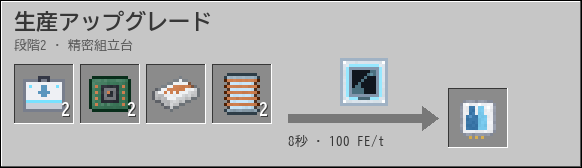
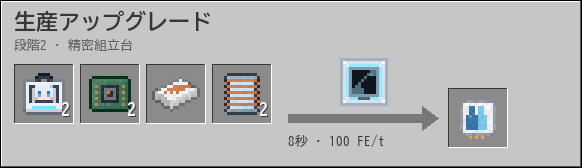
Redraw the android and drone kits, armor plate and gravity boots
The three kits share a white case with a black handle: the android kit
shows an android's face, the drone kit a drone and the self-repair kit a
pink cross. The armor plate keeps its shape, and the gravity boots show a
pair like vanilla boots and are worn as high as leather boots. All fit
within 14 by 14 pixels.

Changed region(s): [[0.0309, 0.4167, 0.1237, 0.6845]]

diff --git a/tools/androids.py b/tools/androids.py
@@ -802,30 +802,41 @@ def memory_icon(accent, Image):
 
 
 def kit_icon(Image):
-    """アンドロイドキット: 白い陶磁のケースに、黒い留め具と水色の線。ふたに人型の印。"""
-    im = Image.new('RGBA', (16, 16), (0, 0, 0, 0))
-    px = im.load()
-    white, shade, edge = (238, 240, 244), (200, 206, 216), (120, 126, 140)
-    dark = (52, 56, 70)
-    glow = (120, 225, 255)
-    for y in range(3, 14):
-        for x in range(1, 15):
-            c = shade if y >= 11 else white
-            if x in (1, 14) or y in (3, 13):
-                c = edge
-            px[x, y] = c + (255,)
-    for x in range(2, 14):
-        px[x, 10] = glow + (255,)
-    for x in (6, 7, 8, 9):
-        px[x, 2] = dark + (255,)
-    px[6, 3] = dark + (255,)
-    px[9, 3] = dark + (255,)
-    # 人型の印（頭と体）
-    for (x, y) in ((7, 5), (8, 5), (7, 6), (8, 6), (6, 7), (7, 7), (8, 7), (9, 7), (7, 8), (8, 8)):
-        px[x, y] = (90, 150, 190, 255)
-    px[3, 5] = glow + (255,)
-    px[12, 5] = glow + (255,)
-    return im
+    """アンドロイドキット（0.21.0 で描き直した）: 黒い取っ手のついた白い箱。窓には、組み上がる前のアンドロイドの顔
+    （前髪とひと房のある白い髪、上が濃い青で下が水色の目、頬の赤み、両脇の髪、水色の髪留め）。箱の下に水色の線。
+    輪郭を含めて14×14に収め、上下左右の真ん中に置く。"""
+    from art16 import outlined, rgba, SOFT_EDGE
+    white, shade, dark = (238, 240, 244), (200, 206, 216), (52, 56, 70)
+    window, glow = (54, 66, 92), (120, 225, 255)
+    hair, hair2 = (232, 236, 244), (196, 204, 220)
+    skin, blush = (252, 226, 214), (246, 178, 184)
+    eye, eye_d = (80, 180, 240), (40, 120, 200)
+
+    def f(d):
+        def px(pts, c):
+            for p in pts:
+                d.point(p, fill=rgba(c))
+        # 取っ手と箱、顔の窓
+        d.rectangle([6, 2, 9, 2], fill=rgba(dark))
+        px([(6, 3), (9, 3)], dark)
+        d.rectangle([2, 4, 13, 13], fill=rgba(white))
+        d.line([(2, 13), (13, 13)], fill=rgba(shade))
+        d.rectangle([3, 5, 12, 10], fill=rgba(window))
+        # 顔（x 4〜11、y 5〜10）
+        d.rectangle([5, 5, 10, 5], fill=rgba(hair))
+        d.rectangle([4, 6, 11, 6], fill=rgba(hair))
+        px([(4, 6), (11, 6)], hair2)
+        d.rectangle([5, 7, 10, 9], fill=rgba(skin))
+        px([(7, 7)], hair)
+        for x in (6, 9):
+            px([(x, 7)], eye_d)
+            px([(x, 8)], eye)
+        px([(5, 9), (10, 9)], blush)
+        d.rectangle([4, 7, 4, 10], fill=rgba(hair2))
+        d.rectangle([11, 7, 11, 10], fill=rgba(hair2))
+        px([(10, 5)], glow)
+        d.line([(4, 12), (11, 12)], fill=rgba(glow))
+    return _kit_finish(Image, outlined(f, **SOFT_EDGE))
 
 
 def charger_icon(Image):
@@ -847,43 +858,64 @@ def charger_icon(Image):
 
 
 def repair_icon(Image):
-    """自己修理キット: 白い小箱に、ピンクの十字と小さなハート。"""
-    im = Image.new('RGBA', (16, 16), (0, 0, 0, 0))
-    px = im.load()
-    for y in range(4, 14):
-        for x in range(2, 14):
-            c = (238, 240, 244) if y < 11 else (206, 212, 222)
-            if x in (2, 13) or y in (4, 13):
-                c = (130, 136, 150)
-            px[x, y] = c + (255,)
-    for x in range(5, 11):
-        px[x, 3] = (130, 136, 150, 255)
-    px[5, 2] = px[10, 2] = (130, 136, 150, 255)
-    for x in range(6, 10):
-        px[x, 2] = (130, 136, 150, 255)
-    for (x, y) in ((7, 6), (8, 6), (7, 7), (8, 7), (5, 8), (6, 8), (7, 8), (8, 8), (9, 8), (10, 8), (7, 9), (8, 9), (7, 10), (8, 10)):
-        px[x, y] = (240, 90, 130, 255)
-    px[11, 5] = (255, 160, 190, 255)
-    return im
+    """自己修理キット（0.21.0 で描き直した）: アンドロイドキットと同じ黒い取っ手の白い箱に、桃色の十字と、箱の下の桃色の線。
+    輪郭を含めて14×14に収め、上下左右の真ん中に置く。"""
+    from art16 import outlined, rgba, SOFT_EDGE
+    white, shade, dark = (238, 240, 244), (200, 206, 216), (52, 56, 70)
+    pink, pink_hi = (240, 90, 130), (255, 170, 196)
+
+    def f(d):
+        d.rectangle([6, 2, 9, 2], fill=rgba(dark))
+        d.point((6, 3), fill=rgba(dark))
+        d.point((9, 3), fill=rgba(dark))
+        d.rectangle([2, 4, 13, 13], fill=rgba(white))
+        d.line([(2, 13), (13, 13)], fill=rgba(shade))
+        d.rectangle([7, 5, 8, 10], fill=rgba(pink))
+        d.rectangle([5, 7, 10, 8], fill=rgba(pink))
+        d.point((7, 5), fill=rgba(pink_hi))
+        d.line([(4, 12), (11, 12)], fill=rgba(pink))
+    return _kit_finish(Image, outlined(f, **SOFT_EDGE))
+
+
+def _kit_finish(Image, im):
+    """取っ手の穴（輪郭で埋まる）を抜き、14×14以内か確かめて真ん中に置く（キットの絵で共通）。"""
+    for x in (7, 8):
+        im.putpixel((x, 3), (0, 0, 0, 0))
+    box = im.getbbox()
+    w, h = box[2] - box[0], box[3] - box[1]
+    assert w <= 14 and h <= 14, (w, h)
+    out = Image.new('RGBA', (16, 16), (0, 0, 0, 0))
+    out.paste(im.crop(box), ((16 - w) // 2, (16 - h) // 2))
+    return out
 
 
 def plate_icon(Image):
-    """アンドロイド用装甲板: 白い陶磁の胸当て。縁は銀、中央に水色の発光ライン。"""
-    im = Image.new('RGBA', (16, 16), (0, 0, 0, 0))
-    px = im.load()
-    rows = [(4, 11), (2, 13), (2, 13), (2, 13), (3, 12), (3, 12), (3, 12), (4, 11), (4, 11), (5, 10), (6, 9)]
-    for i, (a, b) in enumerate(rows):
-        y = 3 + i
-        for x in range(a, b + 1):
-            edge = x in (a, b) or i in (0, len(rows) - 1)
-            c = (150, 156, 170) if edge else (236, 238, 242) if x < 8 else (210, 214, 224)
-            px[x, y] = c + (255,)
-    for x in (6, 9):
-        px[x, 3] = (0, 0, 0, 0)
-    for y in range(6, 12):
-        px[7, y] = (120, 225, 255, 255)
-        px[8, y] = (90, 190, 230, 255)
-    return im
+    """アンドロイド用装甲板（0.21.0 で描き直した）: これまでと同じ形の白い陶磁の胸当て（上が広く、首の左右に切り欠き、下がすぼまる）。
+    左が明るく右が陰。真ん中に水色の発光ライン（明・陰の2列）。輪郭を含めて14×14に収め、上下左右の真ん中に置く。"""
+    from art16 import outlined, rgba, SOFT_EDGE
+    rows = [(4, 11), (2, 13), (2, 13), (2, 13), (3, 12), (3, 12), (3, 12), (4, 11), (4, 11), (5, 10), (6, 9), (7, 8)]
+    left, right = (238, 240, 244), (210, 214, 224)
+
+    def f(d):
+        for i, (x0, x1) in enumerate(rows):
+            y = 2 + i
+            d.line([(x0, y), (7, y)], fill=rgba(left))
+            d.line([(8, y), (x1, y)], fill=rgba(right))
+        d.line([(7, 5), (7, 11)], fill=rgba((120, 225, 255)))
+        d.line([(8, 5), (8, 11)], fill=rgba((90, 190, 230)))
+        d.point((3, 4), fill=(255, 255, 255, 255))
+        d.point((4, 3), fill=(255, 255, 255, 255))
+        d.point((6, 2), fill=(0, 0, 0, 0))   # 首の左右の切り欠き（輪郭を付ける前にも抜く）
+        d.point((9, 2), fill=(0, 0, 0, 0))
+    im = outlined(f, **SOFT_EDGE)
+    for x in (6, 9):                     # 首の左右の切り欠き
+        im.putpixel((x, 2), (0, 0, 0, 0))
+    box = im.getbbox()
+    w, h = box[2] - box[0], box[3] - box[1]
+    assert w <= 14 and h <= 14, (w, h)
+    out = Image.new('RGBA', (16, 16), (0, 0, 0, 0))
+    out.paste(im.crop(box), ((16 - w) // 2, (16 - h) // 2))
+    return out
 
 
 def upgrade_icon(Image):

diff --git a/tools/art16.py b/tools/art16.py
@@ -2395,15 +2395,33 @@ def overclock_chip():
 
 
 def gravity_boots():
-    """重力ブーツ: 白い装甲のブーツ。かかとに青く光る重力素子。"""
-    im, d = new()
-    d.polygon([(4, 2), (9, 2), (9, 10), (14, 11), (14, 14), (3, 14), (3, 9)], fill=(230, 234, 240, 255),
-              outline=(120, 126, 140, 255))
-    d.line([(4, 12), (13, 12)], fill=(70, 74, 84, 255))
-    d.line([(4, 6), (8, 6)], fill=(110, 205, 238, 255))
-    d.rectangle([3, 10, 5, 13], fill=(110, 205, 238, 255))
-    d.point((4, 11), fill=(255, 255, 255, 255))
-    return im
+    """重力ブーツ（0.21.0 で描き直した）: バニラのブーツと同じく、白い装甲のブーツを左右に2足（つま先は外へ）。
+    すねに水色の発光の帯、黒い靴底。2足の間は透明に抜き、内側の縁は陰の色。輪郭を含めて14×14以内で、上下左右の真ん中に置く。"""
+    armor, armor_sh, sole, blue = (232, 236, 242), (192, 200, 214), (58, 62, 76), (110, 205, 238)
+    top = 5
+
+    def f(d):
+        for side in (0, 1):
+            sx = 4 if side == 0 else 9                                     # すねの左端
+            fx0, fx1 = (2, 6) if side == 0 else (9, 13)                    # 足の左右
+            inner = 6 if side == 0 else 9
+            d.rectangle([sx, top, sx + 2, 10], fill=rgba(armor))          # すね
+            d.rectangle([fx0, 10, fx1, 11], fill=rgba(armor))             # 足
+            d.line([(fx0, 12), (fx1, 12)], fill=rgba(sole))               # 靴底
+            d.line([(inner, top), (inner, 11)], fill=rgba(armor_sh))      # 内側の陰
+            d.line([(fx0, 11), (fx1, 11)], fill=rgba(armor_sh))
+            d.line([(sx, top + 1), (sx + 2, top + 1)], fill=rgba(blue))   # すねの帯
+            d.point((sx, top + 2), fill=(255, 255, 255, 255))
+    im = outlined(f, **SOFT_EDGE)
+    for x in (7, 8):                                                       # 2足の間（輪郭で埋まる）を抜く
+        for y in range(16):
+            im.putpixel((x, y), (0, 0, 0, 0))
+    box = im.getbbox()
+    w, h = box[2] - box[0], box[3] - box[1]
+    assert w <= 14 and h <= 14, (w, h)
+    out = Image.new('RGBA', (16, 16), (0, 0, 0, 0))
+    out.paste(im.crop(box), ((16 - w) // 2, (16 - h) // 2))
+    return out
 
 
 def catalyst_stabilizer():
@@ -2495,18 +2513,21 @@ def sealed_container_inner():
 
 
 def gravity_boots_layer():
-    """重力ブーツを履いたときの絵（防具の1枚目、64×32）。ブーツは脚の下半分に描かれる。"""
+    """重力ブーツを履いたときの絵（防具の1枚目、64×32）。0.21.0: アイテムの絵（白い装甲・すねの水色の帯・黒い靴底）に合わせ、
+    高さはバニラの革のブーツと同じ（脚の側面の下6段 v=26〜31 と、足の裏の面）。"""
     from PIL import Image
     im = Image.new('RGBA', (64, 32), (0, 0, 0, 0))
     d = ImageDraw.Draw(im)
-    # 脚の展開図（u=0〜16, v=16〜32）。下側（足首から下）だけ塗る
-    d.rectangle([0, 22, 15, 31], fill=(230, 234, 240, 255))
-    d.rectangle([4, 16, 11, 19], fill=(230, 234, 240, 255))
-    d.line([(0, 22), (15, 22)], fill=(120, 126, 140, 255))
-    d.line([(0, 28), (15, 28)], fill=(70, 74, 84, 255))
-    for x in (1, 5, 9, 13):
-        d.point((x, 25), fill=(110, 205, 238, 255))
-    d.line([(0, 30), (15, 30)], fill=(110, 205, 238, 255))
+    armor, armor_sh, sole, blue = (232, 236, 242), (192, 200, 214), (58, 62, 76), (110, 205, 238)
+    # 脚の展開図: 側面は v=20〜31（右 u0〜3・前 u4〜7・左 u8〜11・後ろ u12〜15）、足の裏は u8〜11, v16〜19
+    d.rectangle([0, 26, 15, 31], fill=rgba(armor))
+    d.line([(0, 26), (15, 26)], fill=rgba(armor_sh))        # 履き口
+    d.line([(0, 27), (15, 27)], fill=rgba(blue))            # すねの帯
+    d.line([(0, 30), (15, 30)], fill=rgba(armor_sh))        # 足の陰
+    d.line([(0, 31), (15, 31)], fill=rgba(sole))            # 靴底
+    d.rectangle([12, 28, 15, 29], fill=rgba(armor_sh))      # 後ろは陰
+    d.point((4, 28), fill=(255, 255, 255, 255))             # 前の光
+    d.rectangle([8, 16, 11, 19], fill=rgba(sole))           # 足の裏
     return im
 
 

diff --git a/tools/drones.py b/tools/drones.py
@@ -187,27 +187,39 @@ def memory_icon(crystal=ORANGE, mark=CYAN):
 
 
 def kit_icon():
-    """ドローンキット: 白い陶磁のケースに、橙の線と黒い留め具。ふたにドローンの印（4つのローターと胴）。"""
-    im = Image.new('RGBA', (16, 16), (0, 0, 0, 0))
-    px = im.load()
-    white, shade, edge = (238, 240, 244), (200, 206, 216), (120, 126, 140)
-    dark = (52, 56, 70)
-    for y in range(4, 14):
-        for x in range(1, 15):
-            c = shade if y >= 11 else white
-            if x in (1, 14) or y in (4, 13):
-                c = edge
-            px[x, y] = c + (255,)
-    for x in range(2, 14):
-        px[x, 10] = ORANGE + (255,)
-    for x in (6, 7, 8, 9):
-        px[x, 3] = dark + (255,)
-    for (x, y) in ((5, 5), (10, 5), (5, 8), (10, 8)):
-        px[x, y] = (90, 96, 110, 255)
-    for (x, y) in ((6, 6), (7, 6), (8, 6), (9, 6), (6, 7), (7, 7), (8, 7), (9, 7)):
-        px[x, y] = (110, 120, 136, 255)
-    px[7, 6] = ORANGE + (255,)
-    return im
+    """ドローンキット（0.21.0 で描き直した）: アンドロイドキットと同じ黒い取っ手の白い箱。暗い窓に、上から見たドローン
+    （白い胴と橙の灯、灰色の腕、胴のすぐ斜めの4つのローター。淡い円盤に白い羽の線）。箱の下に橙の線。
+    輪郭を含めて14×14に収め、上下左右の真ん中に置く。"""
+    white, shade, dark = (238, 240, 244), (200, 206, 216), (52, 56, 70)
+    window, edge = (54, 66, 92), (150, 156, 170)
+    blur, light = (186, 194, 208), (222, 228, 236)
+
+    def f(d):
+        d.rectangle([6, 2, 9, 2], fill=rgba(dark))                         # 取っ手
+        d.point((6, 3), fill=rgba(dark))
+        d.point((9, 3), fill=rgba(dark))
+        d.rectangle([2, 4, 13, 13], fill=rgba(white))                      # 箱
+        d.line([(2, 13), (13, 13)], fill=rgba(shade))
+        d.rectangle([3, 5, 12, 10], fill=rgba(window))                     # 窓
+        d.line([(4, 12), (11, 12)], fill=rgba(ORANGE))
+        for x, top in ((4, True), (9, True), (4, False), (9, False)):    # ローター（円盤と、外側の段の羽）
+            y = 5 if top else 9
+            d.rectangle([x, y, x + 2, y + 1], fill=rgba(blur))
+            yb = y if top else y + 1
+            d.line([(x, yb), (x + 2, yb)], fill=rgba(light))
+        d.rectangle([7, 7, 8, 8], fill=rgba(white))                        # 胴
+        d.point((8, 7), fill=rgba(ORANGE))
+        for p in ((6, 7), (9, 7), (6, 8), (9, 8)):                         # 腕
+            d.point(p, fill=rgba(edge))
+    im = art16.outlined(f, **art16.SOFT_EDGE)
+    for x in (7, 8):                                                       # 取っ手の穴（輪郭で埋まる）を抜く
+        im.putpixel((x, 3), (0, 0, 0, 0))
+    box = im.getbbox()
+    w, h = box[2] - box[0], box[3] - box[1]
+    assert w <= 14 and h <= 14, (w, h)
+    out = Image.new('RGBA', (16, 16), (0, 0, 0, 0))
+    out.paste(im.crop(box), ((16 - w) // 2, (16 - h) // 2))
+    return out
 
 
 def phase_icon():
